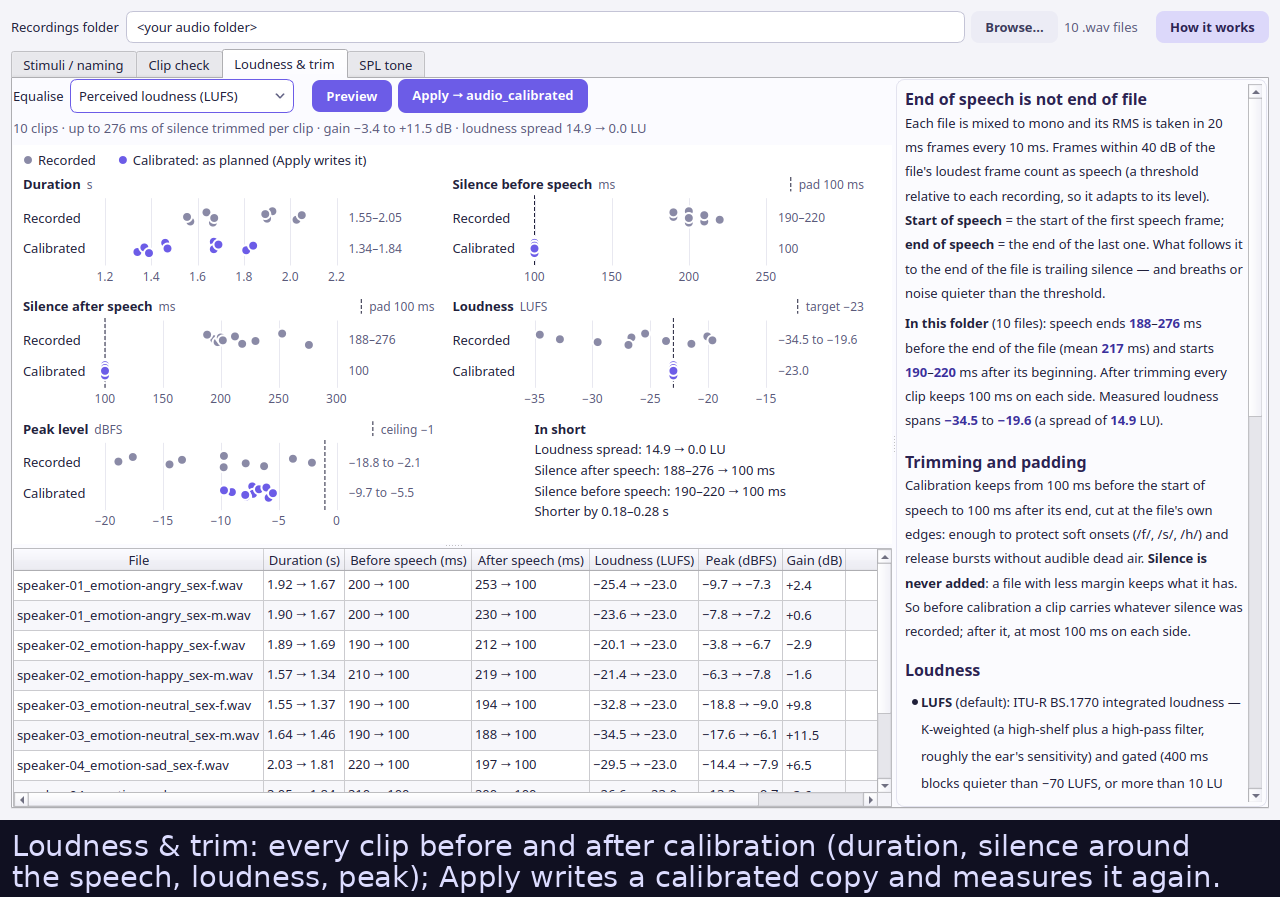
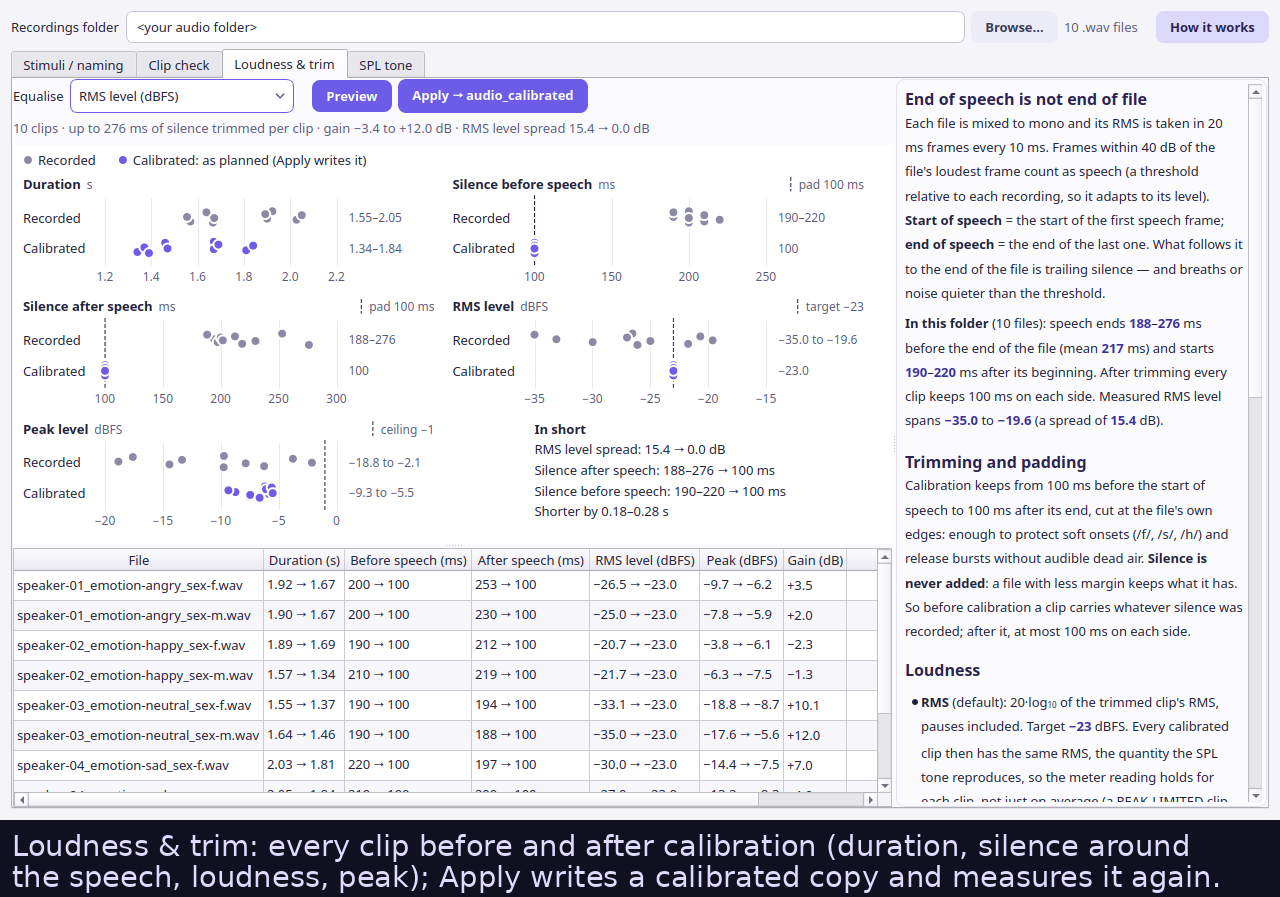
docs: RMS by default and the Analyze button; new calibration screenshots

diff --git a/README.md b/README.md
@@ -53,7 +53,7 @@ and homage.
 | **Engagement and pacing** | Opt-in: a *Next* button between trials (the original's Extra button), a star every N trials, a break screen every N trials. None of it depends on whether answers are right |
 | **Pause and safe quit** | **P** pauses and resumes; **Esc** asks before quitting. A trial interrupted either way is replayed, and the per-trial CSV counts it |
 | **Crash-safe autosave** | Every trial is on disk the moment it ends; an interrupted session resumes at the next trial, in the same order |
-| **Calibration** | Check a stimulus set at a glance (waveform, spectrogram and RMS curve of every clip, flags for clipping, DC offset, noise, cut-off speech); equalise loudness (ITU-R BS.1770) and trim silence, with before/after charts; BIDS-style renaming; an SPL tone at the session volume. Every step is explained in the window |
+| **Calibration** | Check a stimulus set at a glance (waveform, spectrogram and RMS curve of every clip, flags for clipping, DC offset, noise, cut-off speech); equalise level (RMS by default, or ITU-R BS.1770 loudness) and trim silence, with before/after charts; BIDS-style renaming; an SPL tone at the session volume. Every step is explained in the window |
 | **Experimenter monitor** | Live per-trial accuracy and RT on the experimenter's screen while the participant runs |
 | **Reports** | Self-contained HTML, PDF (confusion heatmap + RT charts), Excel (4 sheets), CSV |
 | **Multi-display** | Experiment auto-routes to the participant's screen; setup stays on the experimenter's |
@@ -392,9 +392,9 @@ tooltip.
   large view — waveform, spectrogram (0–8 kHz) and the short-time RMS curve the
   end-of-speech detector decides on, with what trimming would cut — and
   **Play** (or Space) plays it through the session's own audio path, at its
-  Volume, with a playhead. **Deep analysis**, on request, makes a spectrogram
-  card for every clip on one time scale; its button estimates how long that
-  will take on your computer, and it can be cancelled.
+  Volume, with a playhead. **Analyze**, on request, makes a spectrogram card
+  for every clip on one time scale; the button estimates how long that will
+  take on your computer, and it can be cancelled.
 - **Loudness & trim**: *Preview* shows what calibration would change for every
   clip (duration, silence before and after the speech, loudness, peak), as a
   table and as before/after charts with the target, ceiling and padding.
@@ -410,9 +410,11 @@ every 10 ms, and frames within 40 dB of the loudest one count as speech; speech
 starts at the first such frame and ends at the end of the last. What follows is
 trailing silence (188–276 ms in the bundled clips), which the file-offset RT
 includes. Trimming keeps 100 ms before and after the speech and never adds
-silence. Loudness is matched with ITU-R BS.1770 (LUFS, target −23, as in EBU
-R128) by default, or by RMS or peak; no sample may pass −1 dBFS, so a clip
-that would clip is held below the target and flagged PEAK-LIMITED.
+silence. Levels are matched by RMS by default (target −23 dBFS: every
+calibrated clip then has the RMS the SPL tone plays at), or by ITU-R BS.1770
+loudness (LUFS, target −23, as in EBU R128) or peak; no sample may pass
+−1 dBFS, so a clip that would clip is held below the target and flagged
+PEAK-LIMITED.
 
 **Setting the level.** Set the Volume in the setup window first. Put the meter
 where the participant's head will be, or the earphone on a coupler; play the
@@ -518,7 +520,7 @@ pytest -v tests/test_timing.py   # just the timing tests
 ```
 emognition/
   core/        UI-free logic: emotions, stimuli, timing, scoring, session modes
-  audio/       Loudness normalization (LUFS), speech endpoints/trim, clip analysis, SPL tone
+  audio/       Loudness normalization (RMS, LUFS, peak), speech endpoints/trim, clip analysis, SPL tone
   naming/      BIDS-style canonical names + legacy parser + TSV manifest
   imaging/     Backgrounds, picture import, the calibration clip cards (Pillow)
   ui/          PyQt6 setup/calibration/monitor windows; PsychoPy experiment window
